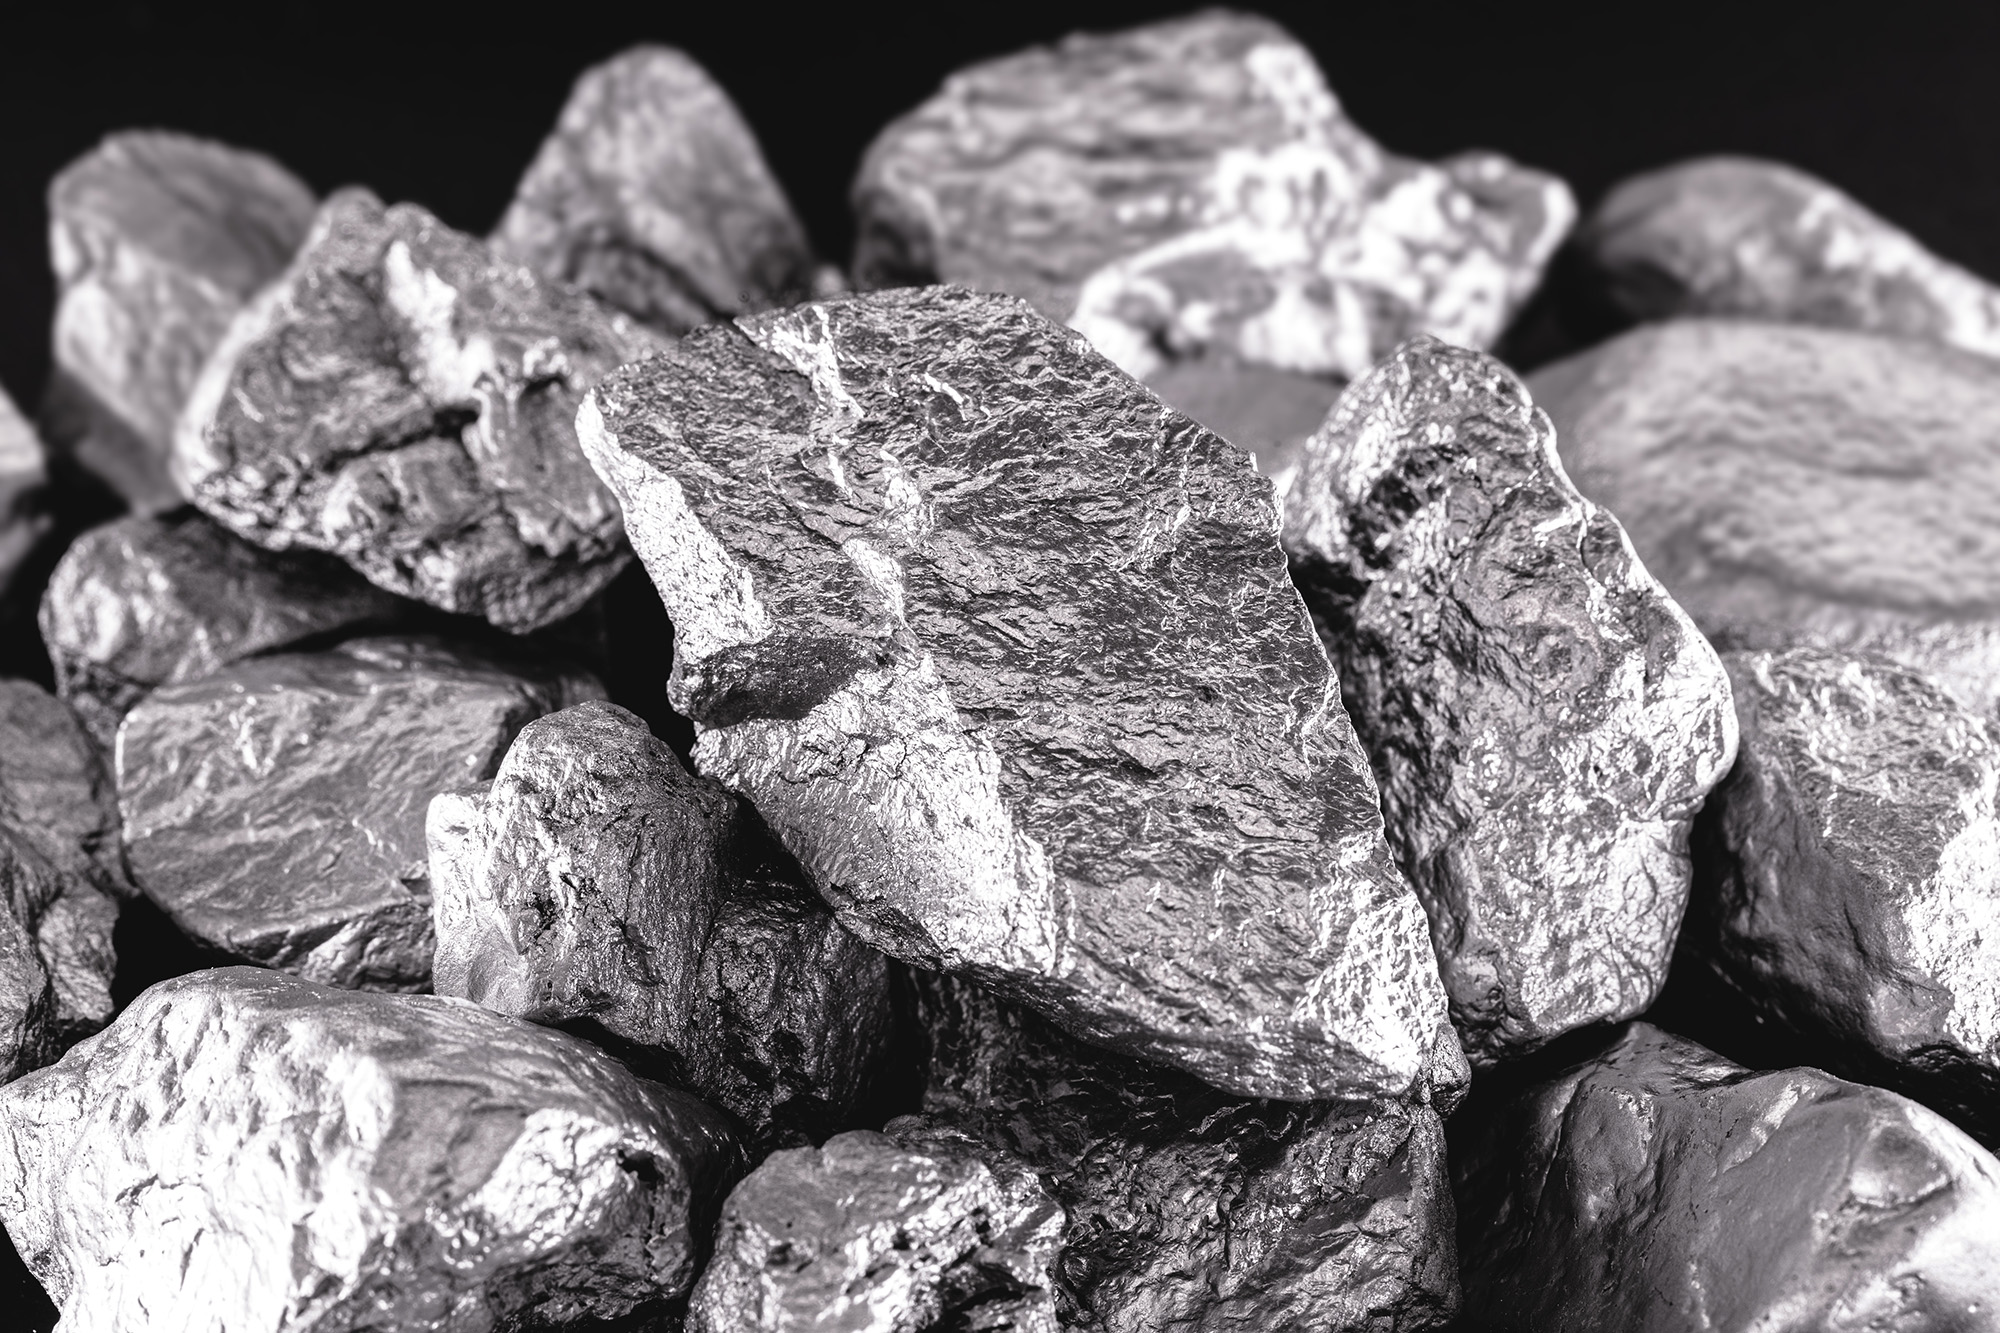
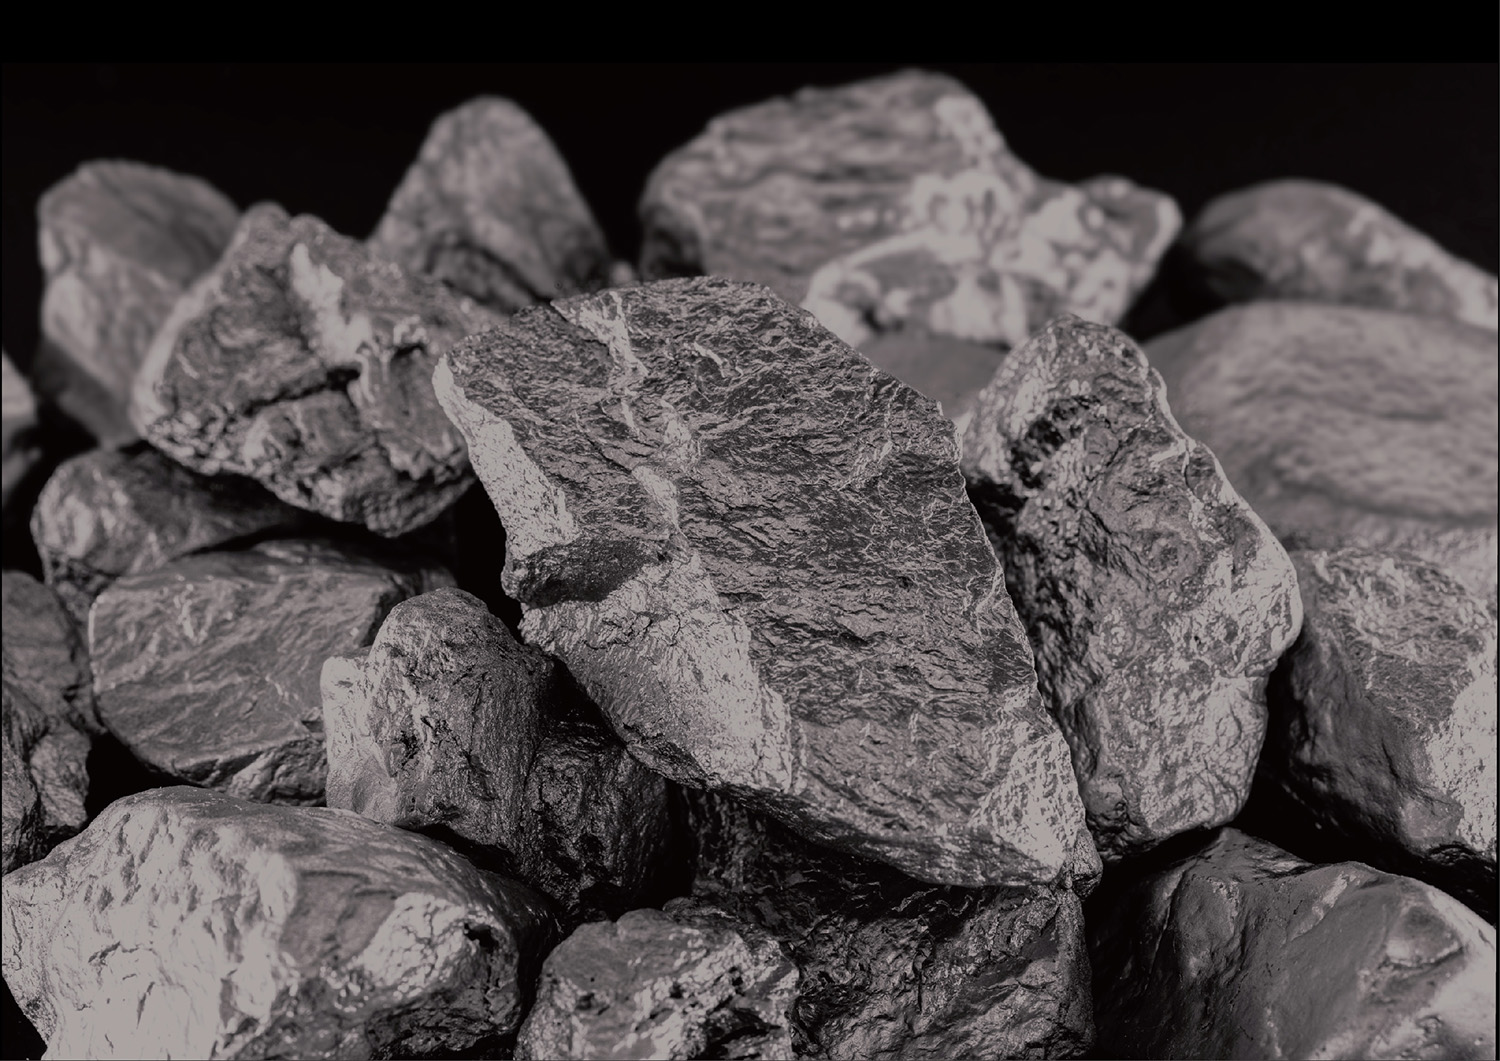
Initial commit of Amaraye Trading FZE LLC website with Playfair font updates

diff --git a/contact.html b/contact.html
@@ -5,6 +5,7 @@
   <meta name="viewport" content="width=device-width, initial-scale=1.0">
   <title>Amaraye Trading FZE LLC - Contact Us</title>
   <script src="https://cdn.tailwindcss.com"></script>
+  <link href="https://fonts.googleapis.com/css2?family=Playfair+Display:wght@400;700&display=swap" rel="stylesheet">
   <style>
     body {
       background-color: #000000;
@@ -14,6 +15,9 @@
     }
     .gold-accent {
       color: #d4af37;
+    }
+    .playfair {
+      font-family: 'Playfair Display', serif;
     }
     .main-layout {
       display: flex;
@@ -84,13 +88,14 @@
   <header class="bg-black shadow sticky top-0 z-10">
     <nav class="container mx-auto px-4 py-4 flex justify-between items-center">
       <div class="flex items-center">
-        <img src="assets/logo.jpg.jpg" alt="Amaraye Trading Logo" class="h-12 mr-2 max-w-full" loading="lazy">
-        <div class="text-2xl font-bold gold-accent">Amaraye Trading FZE LLC</div>
+        <img src="assets/logo.png.png" alt="Amaraye Trading Logo" class="h-14 mr-2 max-w-full" loading="lazy">
+        <div class="text-2xl font-bold gold-accent playfair">Amaraye Trading FZE LLC</div>
       </div>
       <ul class="flex space-x-6">
         <li><a href="index.html" class="hover:gold-accent transition">Home</a></li>
         <li><a href="about.html" class="hover:gold-accent transition">About Us</a></li>
         <li><a href="services.html" class="hover:gold-accent transition">Services</a></li>
+        <li><a href="location.html" class="hover:gold-accent transition">Location</a></li>
         <li><a href="contact.html" class="hover:gold-accent transition">Contacts</a></li>
       </ul>
     </nav>
@@ -100,26 +105,29 @@
   <div class="main-layout">
     <!-- Hero Section with Image and Overlay Text -->
     <div class="hero-section">
-      <img src="assets/metals.jpg (2).jpg" alt="Contact Hero Image" class="hero-image" loading="lazy">
+      <img src="assets/Metal2 .jpg.jpg" alt="Contact Hero Image" class="hero-image" loading="lazy">
       <div class="hero-text">
-        <h1 class="text-4xl md:text-5xl font-bold gold-accent mb-2">Global Metal Trade</h1>
-        <h2 class="text-2xl md:text-3xl uppercase" style="color: #d3d3d3;">ROOTED IN INTEGRITY AND EXCELLENCE</h2>
+        <h1 class="text-4xl md:text-5xl font-bold gold-accent mb-2 playfair">Global Metal Trade</h1>
+        <h2 class="text-2xl md:text-3xl uppercase playfair" style="color: #d3d3d3;">ROOTED IN INTEGRITY AND EXCELLENCE</h2>
       </div>
     </div>
 
     <!-- Contact Section -->
     <section class="contact-section">
       <div class="container mx-auto px-4">
-        <h2 class="text-2xl font-bold text-center mb-6 gold-accent">Contact Us</h2>
+        <h2 class="text-2xl font-bold text-right mb-6 gold-accent"></h2>
         <div class="contact-content">
           <!-- Contact Info -->
           <div>
             <h3 class="text-xl font-semibold mb-4 gold-accent">Get in Touch</h3>
             <p class="text-gray-400 mb-2"><strong>Amaraye Trading FZE LLC</strong></p>
-            <p class="text-gray-400 mb-2">Business Centre, Sharjah Publishing City Free Zone, Sharjah, UAE</p>
-            <p class="text-gray-400 mb-2">Phone: (+254) 709469000</p>
-            <p class="text-gray-400 mb-2">Email: <a href="mailto:info@zamara.co.ke" class="hover:gold-accent">info@zamara.co.ke</a></p>
-            <p class="text-gray-400 mb-2">Website: <a href="http://www.zamaragroup.com" class="hover:gold-accent">www.zamaragroup.com</a></p>
+            <p class="text-gray-400 mb-2">Business Center</p>
+            <p class="text-gray-400 mb-2">P.O.BOX 73111</p>
+            <p class="text-gray-400 mb-2">Sharjah Publishing City Free Zone</p>
+            <p class="text-gray-400 mb-2">Sheikh Mohammed Bin Zayed Road</p>
+            <p class="text-gray-400 mb-2">Sharjah, UAE</p>
+            <p class="text-gray-400 mb-2">Phone: (+971) 505946212</p>
+            <p class="text-gray-400 mb-2">Email: <a href="mailto:info@amarayetrading.com" class="hover:gold-accent">info@amarayetrading.com</a></p>
             <p class="text-gray-400 mb-2">License No: 4311272.01</p>
             <p class="text-gray-400 mb-2">Formation Date: 26/02/2024</p>
             <p class="text-gray-400 mb-2">Expiry Date: 25/02/2026</p>

diff --git a/services.html b/services.html
@@ -5,6 +5,7 @@
   <meta name="viewport" content="width=device-width, initial-scale=1.0">
   <title>Amaraye Trading FZE LLC - Services</title>
   <script src="https://cdn.tailwindcss.com"></script>
+  <link href="https://fonts.googleapis.com/css2?family=Playfair+Display:wght@400;700&display=swap" rel="stylesheet">
   <style>
     body {
       background-color: #000000;
@@ -14,6 +15,9 @@
     }
     .gold-accent {
       color: #d4af37;
+    }
+    .playfair {
+      font-family: 'Playfair Display', serif;
     }
     .main-layout {
       display: flex;
@@ -69,13 +73,14 @@
   <header class="bg-black shadow sticky top-0 z-10">
     <nav class="container mx-auto px-4 py-4 flex justify-between items-center">
       <div class="flex items-center">
-        <img src="assets/logo.jpg.jpg" alt="Amaraye Trading Logo" class="h-12 mr-2 max-w-full" loading="lazy">
-        <div class="text-2xl font-bold gold-accent">Amaraye Trading FZE LLC</div>
+        <img src="assets/logo.png.png" alt="Amaraye Trading Logo" class="h-14 mr-2 max-w-full" loading="lazy">
+        <div class="text-2xl font-bold gold-accent playfair">Amaraye Trading FZE LLC</div>
       </div>
       <ul class="flex space-x-6">
         <li><a href="index.html" class="hover:gold-accent transition">Home</a></li>
         <li><a href="about.html" class="hover:gold-accent transition">About Us</a></li>
         <li><a href="services.html" class="hover:gold-accent transition">Services</a></li>
+        <li><a href="location.html" class="hover:gold-accent transition">Location</a><li>
         <li><a href="contact.html" class="hover:gold-accent transition">Contacts</a></li>
       </ul>
     </nav>
@@ -85,7 +90,7 @@
   <div class="main-layout">
     <!-- Text Section -->
     <div class="text-section">
-      <h2 class="text-3xl font-bold gold-accent mb-4">Our Services</h2>
+      <h2 class="text-3xl font-bold gold-accent mb-4 playfair">Our Services</h2>
       <p class="text-lg mb-6">We specialize in the whole distribution of wide range of metals and raw resources, responsibly handled professionally and delivered with unmatched efficiency. This include wholesale of metals and metal ores, wholesale of ferrous and non-ferrous metal ores, wholesale of ferrous and non-ferrous metals in primary forms and wholesale of ferrous and non-ferrous semi-finished metal products.</p>
     </div>
 
@@ -93,19 +98,19 @@
     <div class="photo-section">
       <div class="photo-item">
         <img src="assets/metal-ores.jpg.jpg" alt="Wholesale of Metals and Metal Ores" loading="lazy">
-        <p class="text-center mt-2">Wholesale of Metals and Metal Ores<br>High grade metals for industrial application</p>
+        <p class="text-center mt-2">Wholesale of Metals and Metal Ores<br>(High grade metals for industrial application)</p>
       </div>
       <div class="photo-item">
         <img src="assets/ferrous-ores.jpg.webp" alt="Wholesale of Ferrous and non-ferrous Metal ores" loading="lazy">
-        <p class="text-center mt-2">Wholesale of Ferrous and non-ferrous Metal ores<br>Reliable supply of raw materials</p>
+        <p class="text-center mt-2">Wholesale of Ferrous and non-ferrous Metal ores<br>(Reliable supply of raw materials)</p>
       </div>
       <div class="photo-item">
         <img src="assets/primary-metals.jpg.jpg" alt="Wholesale of ferrous and non-ferrous in primary forms" loading="lazy">
-        <p class="text-center mt-2">Wholesale of ferrous and non-ferrous in primary forms<br>Quality metals for manufacturing</p>
+        <p class="text-center mt-2">Wholesale of ferrous and non-ferrous in primary forms<br>(Quality metals for manufacturing)</p>
       </div>
       <div class="photo-item">
         <img src="assets/semi-finished.jpg.jpg" alt="Wholesale of semi-finished metal products" loading="lazy">
-        <p class="text-center mt-2">Wholesale of semi-finished metal products<br>Versatile semi-finished products for diverse needs</p>
+        <p class="text-center mt-2">Wholesale of semi-finished metal products<br>(Versatile semi-finished products for diverse needs)</p>
       </div>
     </div>
   </div>

diff --git a/about.html b/about.html
@@ -5,6 +5,7 @@
   <meta name="viewport" content="width=device-width, initial-scale=1.0">
   <title>Amaraye Trading FZE LLC - About Us</title>
   <script src="https://cdn.tailwindcss.com"></script>
+  <link href="https://fonts.googleapis.com/css2?family=Playfair+Display:wght@400;700&display=swap" rel="stylesheet">
   <style>
     body {
       background-color: #000000;
@@ -17,6 +18,9 @@
     }
     .black-text {
       color: #000000;
+    }
+    .playfair {
+      font-family: 'Playfair Display', serif;
     }
     .main-layout {
       display: grid;
@@ -62,13 +66,14 @@
   <header class="bg-black shadow sticky top-0 z-10">
     <nav class="container mx-auto px-4 py-4 flex justify-between items-center">
       <div class="flex items-center">
-        <img src="assets/logo.jpg.jpg" alt="Amaraye Trading Logo" class="h-12 mr-2 max-w-full" loading="lazy">
-        <div class="text-2xl font-bold gold-accent">Amaraye Trading FZE LLC</div>
+        <img src="assets/logo.png.png" alt="Amaraye Trading Logo" class="h-14 mr-2 max-w-full" loading="lazy">
+        <div class="text-2xl font-bold gold-accent playfair">Amaraye Trading FZE LLC</div>
       </div>
       <ul class="flex space-x-6">
         <li><a href="index.html" class="hover:gold-accent transition">Home</a></li>
         <li><a href="about.html" class="hover:gold-accent transition">About Us</a></li>
         <li><a href="services.html" class="hover:gold-accent transition">Services</a></li>
+        <li><a href="location.html" class="hover:gold-accent transition">Location</a></li>
         <li><a href="contact.html" class="hover:gold-accent transition">Contacts</a></li>
       </ul>
     </nav>
@@ -78,16 +83,16 @@
   <div class="main-layout">
     <!-- Left Section: Text Content -->
     <div class="left-section">
-      <h1 class="text-3xl font-bold mb-8 black-text">About Us</h1>
+      <h1 class="text-3xl font-bold mb-8 black-text playfair">About Us</h1>
       <h2 class="text-2xl font-bold mb-4">Powering industries with premium metals for over a decade</h2>
-      <p class="mb-4">At Amaraye Trading FZE LLC we are more than metal traders—we are partners in progress. For over 10 years, we have been at the forefront of the global metals and metal ores supply chain, delivering high-grade metals to clients across sectors including manufacturing, construction, infrastructure and energy.</p>
+      <p class="mb-4">At Amaraye Trading FZE LLC we are more than metal traders-we are partners in progress. For over 10 years, we have been at the forefront of the global metals and metal ores supply chain, delivering high-grade metals to clients across sectors including manufacturing, construction, infrastructure and energy.</p>
       <p class="mb-6">Founded by Dr. Benny Otim with a deep-rooted passion for commerce and industry, our company was built on principles of integrity, precision and long-term relationships.</p>
       <h2 class="text-2xl font-bold mb-4">We specialize in</h2>
       <ol>
-        <li>Wholesale of metals and metal ores</li>
-        <li>Wholesale of ferrous and non-ferrous metal ores</li>
-        <li>Wholesale of ferrous and non-ferrous metals in primary forms</li>
-        <li>Wholesale of ferrous and non-ferrous semi-finished metal products</li>
+        <li>1. Wholesale of metals and metal ores</li>
+        <li>2. Wholesale of ferrous and non-ferrous metal ores</li>
+        <li>3. Wholesale of ferrous and non-ferrous metals in primary forms</li>
+        <li>4. Wholesale of ferrous and non-ferrous semi-finished metal products</li>
       </ol>
     </div>
 

diff --git a/location.html b/location.html
@@ -3,12 +3,12 @@
 <head>
   <meta charset="UTF-8">
   <meta name="viewport" content="width=device-width, initial-scale=1.0">
-  <title>Amaraye Trading FZE LLC - Home</title>
+  <title>Amaraye Trading FZE LLC - Locations</title>
   <script src="https://cdn.tailwindcss.com"></script>
   <link href="https://fonts.googleapis.com/css2?family=Playfair+Display:wght@400;700&display=swap" rel="stylesheet">
   <style>
     body {
-      background-color: #1a1a1a;
+      background-color: #000000;
       color: #e5e7eb;
       margin: 0;
       padding: 0;
@@ -19,29 +19,43 @@
     .playfair {
       font-family: 'Playfair Display', serif;
     }
-    .main-content {
+    .main-layout {
+      display: flex;
+      flex-direction: column;
       min-height: calc(100vh - 128px); /* Adjust for header (64px) and footer (64px) */
+    }
+    .locations-section {
+      background-color: #000000;
+      padding: 2rem;
+      text-align: center;
+      flex-grow: 1;
       display: flex;
       flex-direction: column;
       justify-content: center;
-      align-items: center;
-      text-align: center;
-      padding: 2rem;
     }
-    .metal-image {
+    .image-section {
       width: 100%;
-      height: calc(100vh - 128px); /* Fill remaining space */
+      flex-grow: 1;
+      overflow: hidden;
+    }
+    .image-section img {
+      width: 100%;
+      height: 100%;
       object-fit: cover;
-      position: relative;
-      top: 0;
+      display: block;
+    }
+    .image-placeholder {
+      width: 100%;
+      height: 100%;
+      display: flex;
+      align-items: center;
+      justify-content: center;
+      color: #d3d3d3;
+      background-color: #1a1a1a;
     }
     @media (max-width: 768px) {
-      .main-content {
+      .locations-section {
         padding: 1rem;
-      }
-      .metal-image {
-        height: auto; /* Scale on mobile */
-        min-height: calc(100vh - 128px);
       }
     }
   </style>
@@ -58,17 +72,22 @@
         <li><a href="index.html" class="hover:gold-accent transition">Home</a></li>
         <li><a href="about.html" class="hover:gold-accent transition">About Us</a></li>
         <li><a href="services.html" class="hover:gold-accent transition">Services</a></li>
-        <li><a href="location.html" class="hover:gold-accent transition">Location</a></li>
+        <li><a href="locations.html" class="hover:gold-accent transition">Location</a></li>
         <li><a href="contact.html" class="hover:gold-accent transition">Contacts</a></li>
       </ul>
     </nav>
   </header>
 
-  <!-- Main Content -->
-  <div class="main-content">
-    <h1 class="text-4xl md:text-5xl font-bold gold-accent mb-4 playfair">Global Metal Trade</h1>
-    <p class="text-2xl md:text-3xl mb-8 uppercase playfair">ROOTED IN INTEGRITY AND EXCELLENCE</p>
-    <img src="assets/metals.jpg.jpg" alt="Metal Showcase" class="metal-image" loading="lazy">
+  <!-- Main Layout -->
+  <div class="main-layout">
+    <!-- Locations Section -->
+    <section class="locations-section">
+      <h1 class="text-3xl font-bold gold-accent mb-6 playfair">Find Us</h1>
+      <div class="image-section">
+        <img src="assets/globl-locations.jpg.jpg" alt="Global Locations Map" loading="lazy" onerror="this.style.display='none'; this.nextElementSibling.style.display='flex'" />
+        <div class="image-placeholder hidden">Please add 'global-locations.jpg' to the assets folder.</div>
+      </div>
+    </section>
   </div>
 
   <!-- Footer -->
